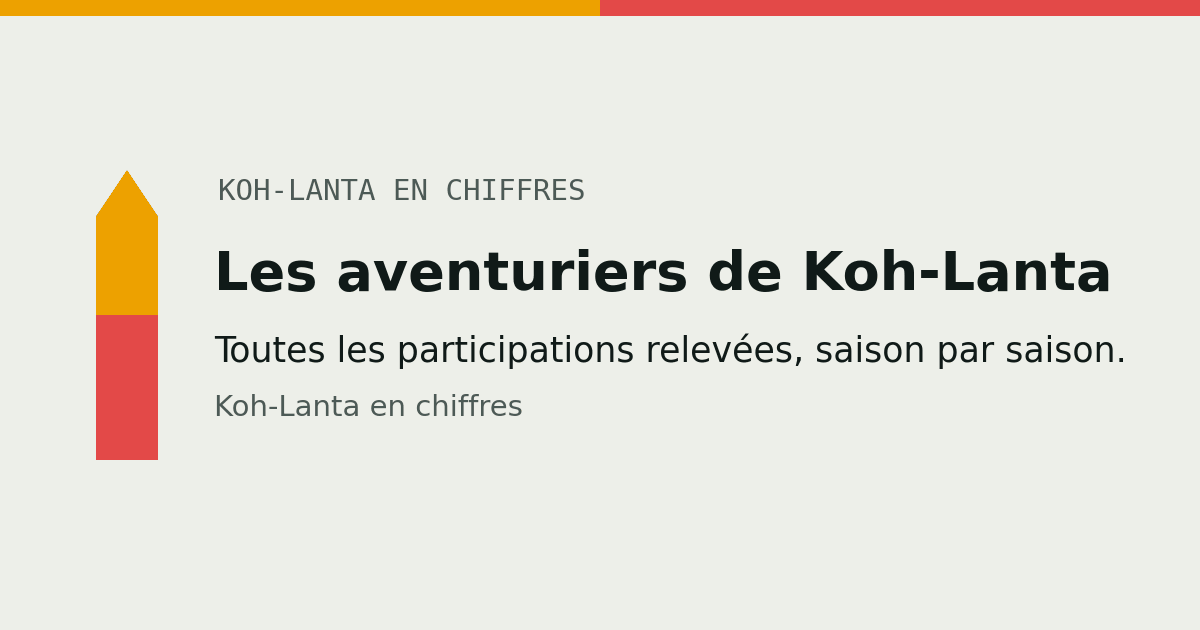
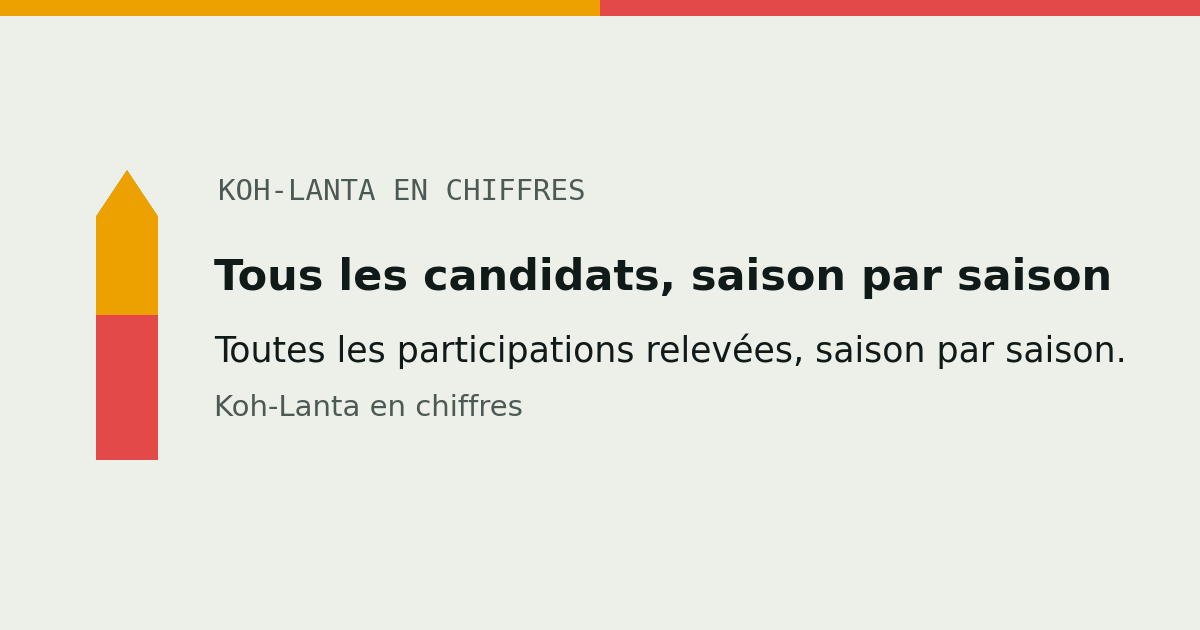
SEO : vainqueurs lies sur /saisons/ et /statistiques/vainqueurs/, titres de top et aventuriers
/saisons/ : chaque vainqueur renvoie a sa fiche, sous son nom complet (le
prenom seul n'etait pas la requete tapee). Les ids viennent des fiches de
saison, que fiche-saison.html lit deja.

/statistiques/vainqueurs/ : build_stats pose vainqueur_id et finaliste_id
sur les couples ; les 50 noms du tableau sont des liens.

title de /statistiques/top/ : « Classement des meilleurs aventuriers »
(la requete visee, sans repeter Koh-Lanta que le suffixe porte) ; de
/aventuriers/ : « Tous les candidats, saison par saison », qui ne double
plus la saison 1. Le H1 ne bouge pas : il passe par `titre:`.

Empreinte par bloc : dependance.py ne depend plus que de
stats.yml#modeles, le seul bloc qu'il lit ; un ajout ailleurs dans
stats.yml ne coute plus deux heures de calcul. Le bloc etant identique,
l'en-tete de dependance.yml est migre sans relancer le calcul.

Changed region(s): [[0.185, 0.3921, 0.925, 0.4825]]

diff --git a/tools/donnees.py b/tools/donnees.py
@@ -25,6 +25,7 @@ qui doit s'afficher arrondi s'arrondit dans le script qui le calcule ; un
 texte (« 8 127 000 téléspectateurs ») se fabrique en `_texte` a cote.
 """
 import hashlib
+import json
 import math
 import os
 import re
@@ -207,8 +208,23 @@ LUS = {}
 
 
 def empreinte(chemin):
+    """L'empreinte d'un fichier, ou d'un seul de ses blocs : « stats.yml#modeles ».
+    Un generateur qui ne lit qu'un bloc ne se perime pas quand le reste change
+    -- dependance.py ne lit que les modeles, et coute deux heures."""
+    chemin, _, bloc = chemin.partition("#")
+    if bloc:
+        with open(chemin, encoding="utf-8") as f:
+            valeur = yaml.safe_load(f).get(bloc)
+        texte = json.dumps(valeur, sort_keys=True, ensure_ascii=False, default=str)
+        return hashlib.sha256(texte.encode("utf-8")).hexdigest()[:12]
     with open(chemin, "rb") as f:
         return hashlib.sha256(f.read()).hexdigest()[:12]
+
+
+def ne_lire_que(nom, bloc):
+    """Declare que le script n'a lu que `bloc` de `_data/<nom>`."""
+    LUS.pop("_data/" + nom, None)
+    LUS[f"_data/{nom}#{bloc}"] = empreinte(os.path.join(DATA, nom) + "#" + bloc)
 
 
 def _noter(flux):
@@ -242,7 +258,7 @@ def entrees_changees(chemin):
         return None
     racine = os.path.dirname(DATA)
     return [nom for nom, h in entrees
-            if not os.path.exists(os.path.join(racine, nom))
+            if not os.path.exists(os.path.join(racine, nom.partition("#")[0]))
             or empreinte(os.path.join(racine, nom)) != h]
 
 

diff --git a/tools/build_stats.py b/tools/build_stats.py
@@ -839,8 +839,10 @@ def voix_des_vainqueurs(lignes):
                     continue
                 couples.append({
                     "saison": sid, "titre": a["titre"], "annee": a["annee"],
-                    "vainqueur": a["nom"], "voix_vainqueur": a["voix_recues"],
-                    "finaliste": f["nom"], "voix_finaliste": f["voix_recues"],
+                    "vainqueur": a["nom"], "vainqueur_id": a["id"],
+                    "voix_vainqueur": a["voix_recues"],
+                    "finaliste": f["nom"], "finaliste_id": f["id"],
+                    "voix_finaliste": f["voix_recues"],
                     "conseils": a["conseils_assistes"],
                 })
     couples.sort(key=lambda x: (x["annee"], x["saison"]))

diff --git a/tools/dependance.py b/tools/dependance.py
@@ -170,6 +170,7 @@ def complements(modeles):
 
 def main():
     stats = donnees.charger(open(os.path.join(B.RACINE, "_data", "stats.yml"), encoding="utf-8"))
+    donnees.ne_lire_que("stats.yml", "modeles")
     modeles = stats["modeles"]
     registre = modeles["registre"]
     comp = complements(modeles)

diff --git a/saisons.md b/saisons.md
@@ -52,9 +52,10 @@ c’est <b>{{ site.data.stats.classement.top_saisons[0].aventurier }}</b> à
       {%- endfor -%}
       <span class="saison-tribus-noms">{{ x.tribus | map: "nom" | join: " · " }}</span>
     </p>
+    {%- assign vq = site.data.fiches.saisons[x.id].vainqueurs %}
     <p class="saison-vainqueur">
-      {%- if x.vainqueurs.size > 1 -%}Vainqueurs : <b>{{ x.vainqueurs | join: " et " }}</b>
-      {%- elsif x.vainqueurs.size == 1 -%}Vainqueur : <b>{{ x.vainqueurs[0] }}</b>
+      {%- if vq.size > 1 -%}Vainqueurs : <b>{% for v in vq %}{% include lien-aventurier.html id=v.id nom=v.nom %}{% unless forloop.last %} et {% endunless %}{% endfor %}</b>
+      {%- elsif vq.size == 1 -%}Vainqueur : <b>{% for v in vq %}{% include lien-aventurier.html id=v.id nom=v.nom %}{% unless forloop.last %} et {% endunless %}{% endfor %}</b>
       {%- elsif x.sans_vainqueur -%}<i>pas de vainqueur</i>
       {%- else -%}<i>saison en cours</i>{%- endif -%}
     </p>
@@ -82,9 +83,10 @@ moyennes d’âge vers le haut sans rien dire du casting ordinaire.
     <p class="saison-numero">Spéciale · {{ x.annee }}{% if x.duree_jours %} · {{ x.duree_jours }} jours{% endif %}</p>
     <p class="saison-titre">{% include lien-saison.html id=x.id titre=x.titre %}</p>
     <p class="saison-lieu">{{ x.lieu | replace: "'", "’" | replace: "Taha’a", "Taha'a" }}, {{ x.pays }}</p>
+    {%- assign vq = site.data.fiches.saisons[x.id].vainqueurs %}
     <p class="saison-vainqueur">
-      {%- if x.vainqueurs.size > 1 -%}Vainqueurs : <b>{{ x.vainqueurs | join: " et " }}</b>
-      {%- elsif x.vainqueurs.size == 1 -%}Vainqueur : <b>{{ x.vainqueurs[0] }}</b>
+      {%- if vq.size > 1 -%}Vainqueurs : <b>{% for v in vq %}{% include lien-aventurier.html id=v.id nom=v.nom %}{% unless forloop.last %} et {% endunless %}{% endfor %}</b>
+      {%- elsif vq.size == 1 -%}Vainqueur : <b>{% for v in vq %}{% include lien-aventurier.html id=v.id nom=v.nom %}{% unless forloop.last %} et {% endunless %}{% endfor %}</b>
       {%- elsif x.sans_vainqueur -%}<i>pas de vainqueur</i>
       {%- else -%}<i>saison en cours</i>{%- endif -%}
     </p>

diff --git a/statistiques/vainqueurs.md b/statistiques/vainqueurs.md
@@ -191,8 +191,8 @@ aucune.
 {% for x in vv.couples %}
 <tr>
   <td>{{ x.titre }}</td><td class="nombre">{{ x.annee }}</td>
-  <td>{{ x.vainqueur }}</td><td class="nombre" data-val="{{ x.voix_vainqueur }}"><b>{{ x.voix_vainqueur }}</b></td>
-  <td>{{ x.finaliste }}</td><td class="nombre">{{ x.voix_finaliste }}</td>
+  <td>{% include lien-aventurier.html id=x.vainqueur_id nom=x.vainqueur %}</td><td class="nombre" data-val="{{ x.voix_vainqueur }}"><b>{{ x.voix_vainqueur }}</b></td>
+  <td>{% include lien-aventurier.html id=x.finaliste_id nom=x.finaliste %}</td><td class="nombre">{{ x.voix_finaliste }}</td>
 </tr>
 {% endfor %}
 </tbody>

diff --git a/statistiques/top.md b/statistiques/top.md
@@ -1,6 +1,7 @@
 ---
 layout: page
-title: Le top des joueurs de Koh-Lanta
+title: Classement des meilleurs aventuriers
+titre: Le top des joueurs de Koh-Lanta
 description: "Le top des joueurs de Koh-Lanta : quatre façons de bien jouer, mesurées sans jamais regarder qui a gagné, et le classement des 531 aventuriers."
 permalink: /statistiques/top/
 chapeau: >-

diff --git a/aventuriers.md b/aventuriers.md
@@ -1,6 +1,7 @@
 ---
 layout: page
-title: Les aventuriers de Koh-Lanta
+title: Tous les candidats, saison par saison
+titre: Les aventuriers de Koh-Lanta
 description: "Les 645 participations à Koh-Lanta, saison par saison : durée, épreuves, votes, manière de sortir. Un tableau qui se cherche, se filtre et se trie."
 permalink: /aventuriers/
 chapeau: >-
